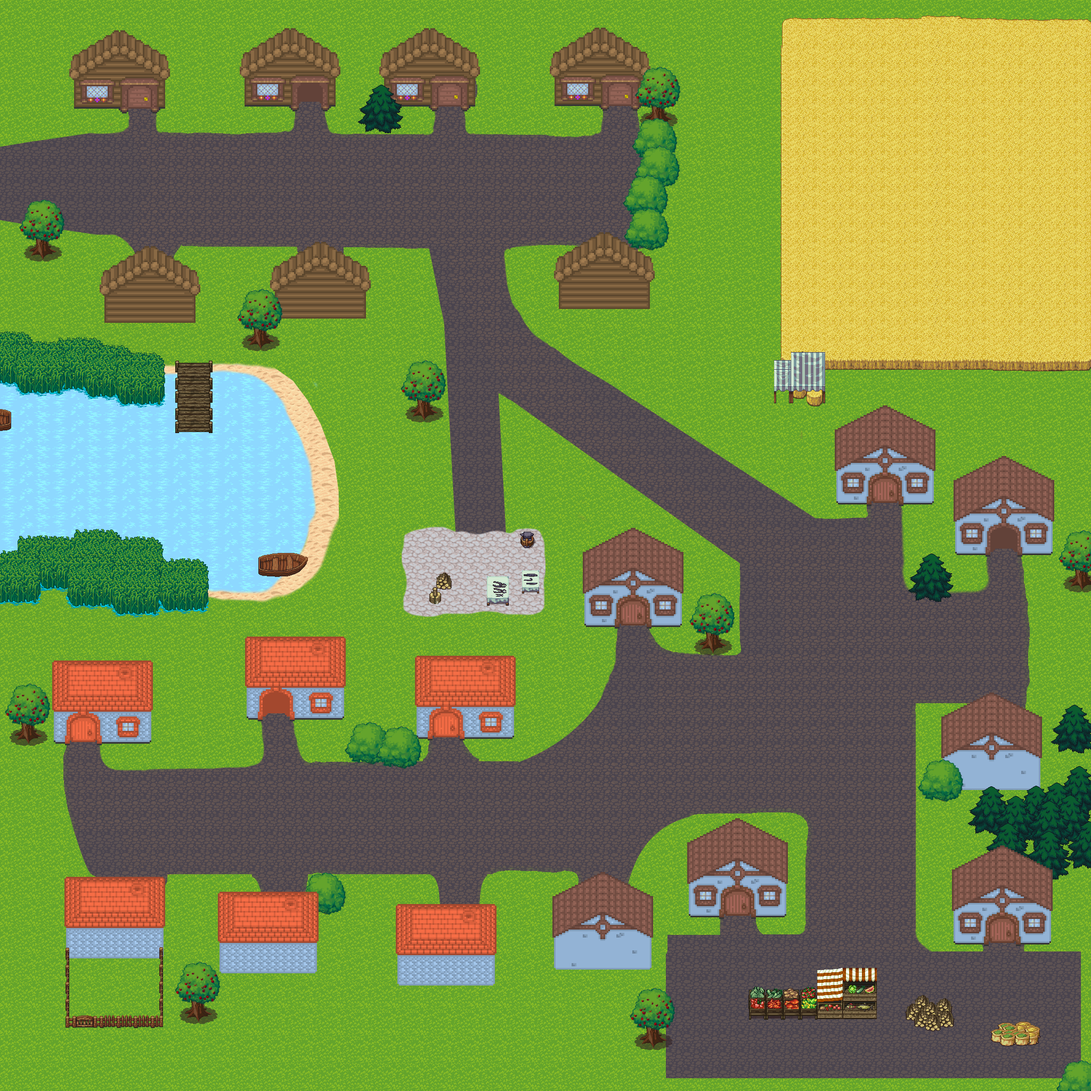
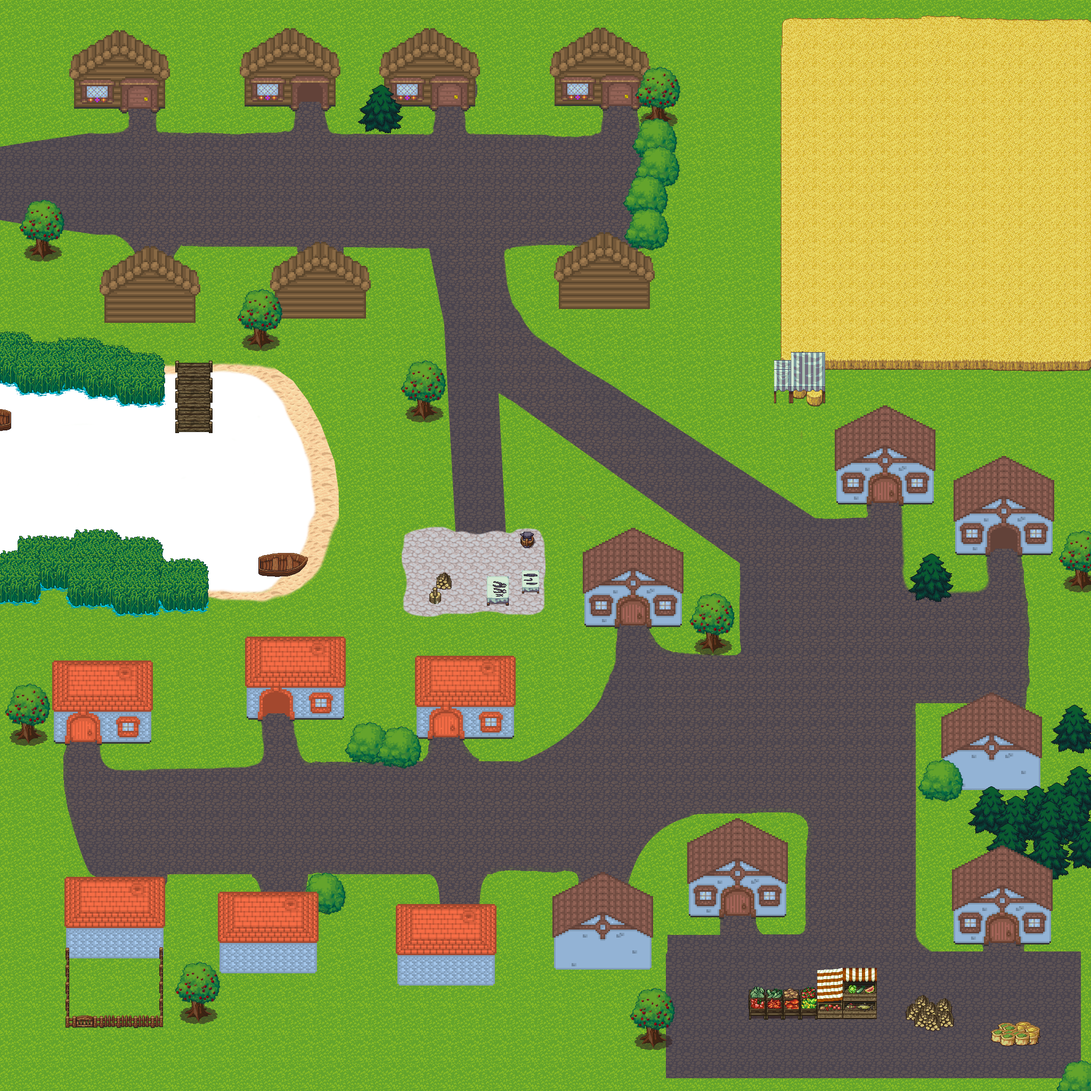
Created ParticleSystem and added smoke to houses Added water animation for lake

Changed region(s): [[0.0, 0.3125, 0.3125, 0.5625]]

diff --git a/user_components.py b/user_components.py
@@ -1,12 +1,14 @@
 from engine.input_manager import input_manager
 from engine.scene_manager import scene_manager
 from engine.initialize_engine import width, height
-from engine.base_components import Component, ImageComponent
+from engine.base_components import Component, ImageComponent, ImageFile
 from engine.game_objects import GameObject
 
 from pygame.math import Vector2
 import pygame
 import itertools as it
+from time import time
+import random
 
 from engine.gui import gui, Label
 
@@ -61,12 +63,15 @@ class AnimationContoller(ImageComponent):
     def serialize(self):
         return {}  # TODO
 
+
 def test_func_press_e():
     #It is test function
     print('Press "e"')
 
+
 def test_func_press_spase():
     print('Press " "')
+
 
 class PlayerController(Component):
     def __init__(self, speed, game_object):
@@ -81,6 +86,7 @@ class PlayerController(Component):
         vert = input_manager.get_axis('Vertical')
 
         x, y = self.game_object.transform.coord
+        print(x, y)
 
         cam = scene_manager.current_scene.current_camera
         old_cam_pos = cam.transform.coord
@@ -235,3 +241,47 @@ class TriggerCollider(Collider):
             'text_for_player': self.text_for_player
         })
         return d
+
+
+class ParticleSystem(Component):
+    def __init__(self, image_path, particles_per_frame, correction, speed, life_time, game_object):
+        self.path = image_path
+        self.particles_per_frame = particles_per_frame
+        self.speed = speed
+        self.life_time = life_time
+        self.correction = Vector2(correction) + Vector2(-0.5, -0.5)
+        super().__init__(game_object)
+
+    def update(self, *args):
+        for _ in range(self.particles_per_frame):
+            go = GameObject(*self.game_object.transform.coord)
+            go.add_component(ImageFile(self.path, go))
+            go.add_component(Particle(
+                (self.correction + Vector2(random.random(), random.random())).normalize(),
+                self.speed, self.life_time, go
+            ))
+            scene_manager.current_scene.add_object(go)
+
+    @staticmethod
+    def deserialize(component_dict, obj):
+        return ParticleSystem(
+            component_dict['path'], component_dict['particles_per_frame'], component_dict['correction'],
+            component_dict['speed'], component_dict['life_time'], obj
+        )
+
+
+class Particle(Component):
+    def __init__(self, direction, speed, life_time, game_object):
+        super().__init__(game_object)
+        self.life_time = life_time
+        self.direction = direction
+        self.speed = speed
+        self._start = time()
+
+    def update(self, *args):
+        if time() - self._start >= self.life_time:
+            # POSSIBLE MEMORY LEAK ????????
+            scene_manager.current_scene.remove_object(self.game_object)
+        else:
+            move = self.direction * self.speed
+            self.game_object.transform.move(move.x, move.y)

diff --git a/scene_loader.py b/scene_loader.py
@@ -1,7 +1,7 @@
 from engine.scene_manager import scene_manager
 from engine.game_objects import GameObject
 from engine.base_components import ImageFile
-from user_components import PhysicsCollider, TriggerCollider, PlayerController, AnimationContoller
+from user_components import PhysicsCollider, TriggerCollider, PlayerController, AnimationContoller, ParticleSystem
 import json
 
 
@@ -32,5 +32,6 @@ component_loaders = {
     'PlayerController': PlayerController.deserialize,
     'PhysicsCollider': PhysicsCollider.deserialize,
     'TriggerCollider': TriggerCollider.deserialize,
-    'AnimationController': AnimationContoller.deserialize
+    'AnimationController': AnimationContoller.deserialize,
+    'ParticleSystem': ParticleSystem.deserialize
 }

diff --git a/main.py b/main.py
@@ -6,15 +6,18 @@ import sys
 
 from scene_loader import load_scene
 from engine.input_manager import input_manager
-from engine.gui import gui, Button, Image, Label
+from engine.gui import gui, Button
 
 
 load_scene('scenes/scene1.json')
 
-def a():
-    print('Press button')
-
-gui.add_element(Button((200, 50), {'normal': 'images/normal.png', 'hovered':'images/hovered.png', 'clicked': 'images/clicked.png'}, 'but1', a))
+gui.add_element(
+    Button((200, 50), {
+        'normal': 'images/normal.png',
+        'hovered':'images/hovered.png',
+        'clicked': 'images/clicked.png'
+    }, 'but1', lambda: print('Pressed button'))
+)
 
 clock = pygame.time.Clock()
 while True:
